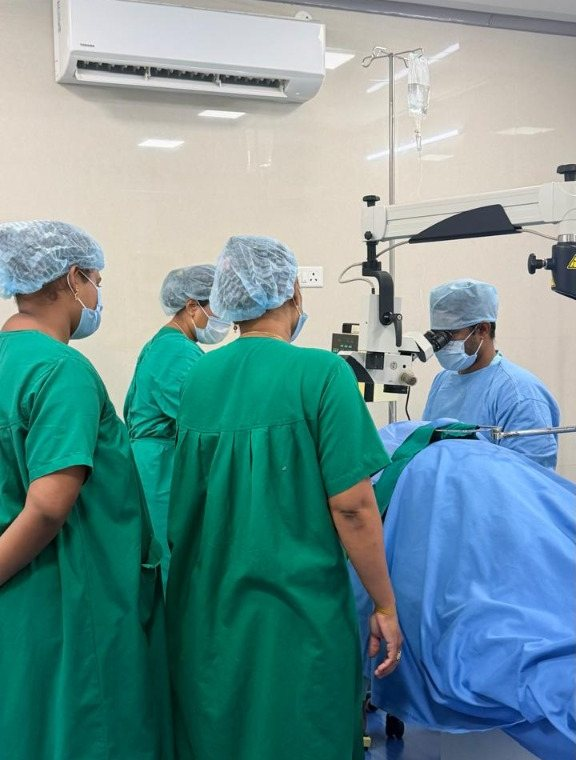
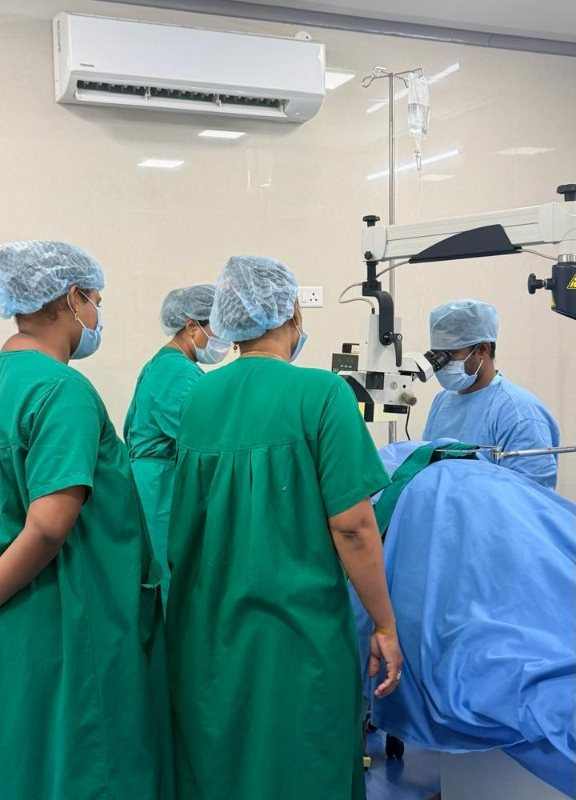
feat: use cache-busted image URLs for blogs including surgery OT suite for cornea health

diff --git a/src/data/blogs.js b/src/data/blogs.js
@@ -11,7 +11,7 @@ export const blogsData = [
     category: 'Cataract Education',
     publishDate: 'Updated Monthly',
     readTime: '4 min read',
-    image: '/images/blog-cataract.webp',
+    image: '/images/blog-cataract-oct.webp',
     excerpt: 'Learn what causes clouding of your eye’s natural lens, how to identify early symptoms like glare and faded colors, and what to expect during a modern cataract consultation.',
     content: `
 ### What Is a Cataract?
@@ -43,7 +43,7 @@ There is a common old myth that a cataract must "ripen" before treatment. In mod
     category: 'Preventive Care',
     publishDate: 'Educational Series',
     readTime: '3 min read',
-    image: '/images/blog-checkup.webp',
+    image: '/images/blog-opticals-counter.webp',
     excerpt: 'Why annual eye evaluations are vital even if you think your vision is normal. Discover what a complete ophthalmic checkup uncovers.',
     content: `
 ### Vision Testing vs. Comprehensive Eye Examination
@@ -77,7 +77,7 @@ At RV Superspeciality Eye Care, a complete check-up includes:
     category: 'Glaucoma Care',
     publishDate: 'Awareness Series',
     readTime: '5 min read',
-    image: '/images/blog-glaucoma.webp',
+    image: '/images/blog-glaucoma-suite.webp',
     excerpt: 'Glaucoma is one of the leading causes of irreversible blindness worldwide. Discover how timely screening and pressure management preserve your vision.',
     content: `
 ### What Is Glaucoma?
@@ -104,7 +104,7 @@ Currently, optic nerve damage cannot be reversed. However, **further vision loss
     category: 'Symptoms & Care',
     publishDate: 'Patient Guidance',
     readTime: '4 min read',
-    image: '/images/blog-blurry.webp',
+    image: '/images/blog-blurry-checkup.webp',
     excerpt: 'From uncorrected refractive errors to dry eye syndrome and retinal conditions, understand why your vision might be hazy and when it requires immediate attention.',
     content: `
 ### What Does "Blurry Vision" Mean?
@@ -133,7 +133,7 @@ Seek immediate medical consultation if your blurry vision is accompanied by:
     category: 'Vision Wellness',
     publishDate: 'Lifestyle & Wellness',
     readTime: '3 min read',
-    image: '/images/blog-digital.webp',
+    image: '/images/blog-digital-surface.webp',
     excerpt: 'Modern work and smartphone use expose our eyes to continuous near-focus demands. Follow the 20-20-20 rule and practical ergonomic adjustments.',
     content: `
 ### What Is Digital Eye Strain (Computer Vision Syndrome)?
@@ -160,7 +160,7 @@ Extended screen time forces our ocular ciliary muscles into sustained contractio
     category: 'Cornea Health',
     publishDate: 'Clinical Awareness',
     readTime: '4 min read',
-    image: '/images/blog-cornea.webp',
+    image: '/images/blog-cornea-surgery.webp',
     excerpt: 'Your cornea is the crystal window of your eye. Learn how to protect it from abrasions, bacterial infections, and chronic tear instability.',
     content: `
 ### The Role of Your Cornea
